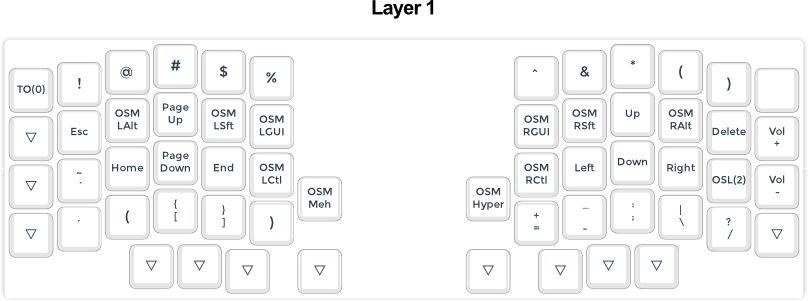
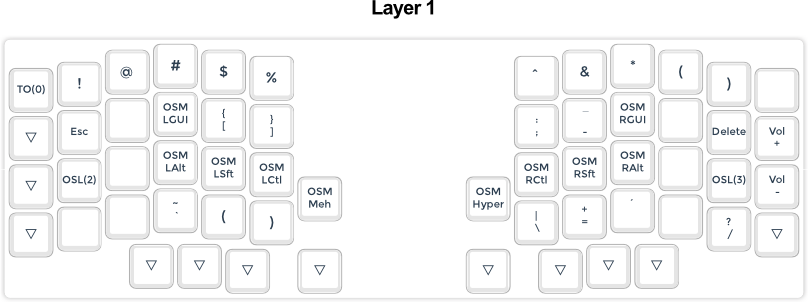
Fixed some minor issues with the navigation layer

diff --git a/readme.md b/readme.md
@@ -80,14 +80,4 @@ The layout turned out as follows, with a lot fewer layers.
 ![](_img/Plywood2_layer0.png)
 ![](_img/Plywood2_layer1.png)
 ![](_img/Plywood2_layer2.png)
-
-There is definitely still some probelms that needs to be adressed:
-- With the movement keys taking up the homerow on layer 1 now the OSM shift ends up on the upper row instead of right under the pointer fingers.
-  - Possible solutions:
-    - Get used to it
-      - The problem is slightly lesser when actually managing to activate the modifier with the other hand. Something that is slightly easier now that the keyboard isn't trying to be symmetrical.
-    - Move the movement keys down one row to have them in a slightly more traditional position.
-      - This would give the added benefit of not having to curl the fingers as much to reach all of the special characters on the lower row.
-      - On the other hand this would move the navigation keys out of the position I'm used to and how it aligns with the keypad.
-    - Move movement keys to a new layer
-      - Could have a 3x3 with the regular numbers on the opposite side for ease of access 
+![](_img/Plywood2_layer3.png)
